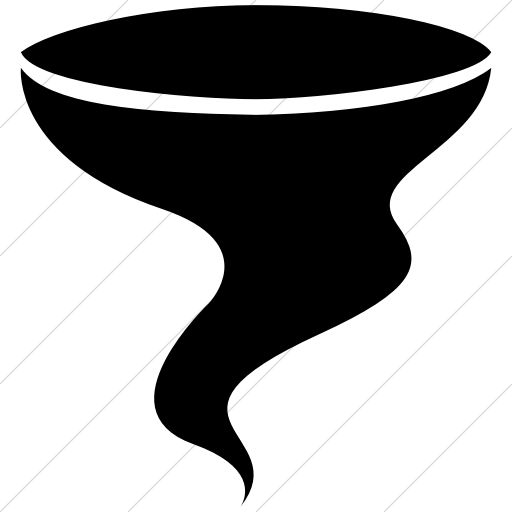
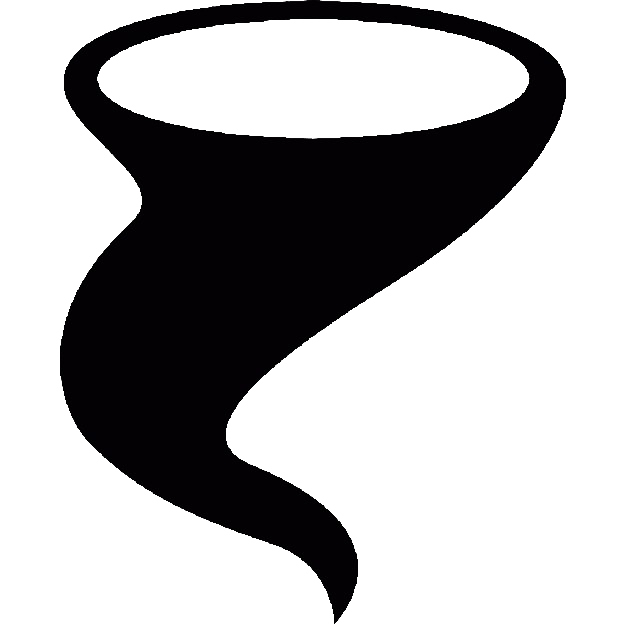
bubbles
- Bubble layers with icons per disaster type (tornado, earthquake).
- Dummy data to show icons on map

diff --git a/src/worldmap.js b/src/worldmap.js
@@ -1,9 +1,187 @@
-var basic;
-
-function setup(){
-	basic = new Datamap({
+var map = new Datamap({
   element: document.getElementById("map")
 });
-}
-/*Probably unnecessary*/
-window.onload = setup
+
+
+// code from http://jsbin.com/sijijupiba/edit?html,output
+// discussed in https://github.com/markmarkoh/datamaps/issues/230
+
+map.addPlugin('earthquakes', function ( layer, data, options ) {  
+    var self = this,
+        fillData = this.options.fills,
+        svg = this.svg;
+
+    if ( !data || (data && !data.slice) ) {
+      throw "Datamaps Error - bubbles must be an array";
+    }
+
+    var bubbles = layer.selectAll('image.datamaps-pins').data( data, JSON.stringify );
+
+    bubbles
+      .enter()
+        .append('image')
+        .attr('class', 'datamaps-pin')
+        .attr('xlink:href', 'img/earthquake_blue.png')
+        .attr('height', 40)
+        .attr('width', 40)
+        .attr('x', function ( datum ) {
+          console.log('hey')
+          var latLng;
+          if ( datumHasCoords(datum) ) {
+            latLng = self.latLngToXY(datum.latitude, datum.longitude);
+          }
+          else if ( datum.centered ) {
+            latLng = self.path.centroid(svg.select('path.' + datum.centered).data()[0]);
+          }
+          if ( latLng ) return latLng[0];
+        })
+        .attr('y', function ( datum ) {
+          var latLng;
+          if ( datumHasCoords(datum) ) {
+            latLng = self.latLngToXY(datum.latitude, datum.longitude);
+          }
+          else if ( datum.centered ) {
+            latLng = self.path.centroid(svg.select('path.' + datum.centered).data()[0]);
+          }
+          if ( latLng ) return latLng[1];;
+        })
+
+        .on('mouseover', function ( datum ) {
+          console.log('mousover!');
+          var $this = d3.select(this);
+
+          if (options.popupOnHover) {
+            console.log('going', datum)
+            self.updatePopup($this, datum, options, svg);
+          }
+        })
+        .on('mouseout', function ( datum ) {
+          var $this = d3.select(this);
+
+          if (options.highlightOnHover) {
+            //reapply previous attributes
+            var previousAttributes = JSON.parse( $this.attr('data-previousAttributes') );
+            for ( var attr in previousAttributes ) {
+              $this.style(attr, previousAttributes[attr]);
+            }
+          }
+
+          d3.selectAll('.datamaps-hoverover').style('display', 'none');
+        })
+
+
+    bubbles.exit()
+      .transition()
+        .delay(options.exitDelay)
+        .attr("height", 0)
+        .remove();
+
+    function datumHasCoords (datum) {
+      return typeof datum !== 'undefined' && typeof datum.latitude !== 'undefined' && typeof datum.longitude !== 'undefined';
+    }
+      
+    });
+
+map.addPlugin('tornados', function ( layer, data, options ) {  
+    var self = this,
+        fillData = this.options.fills,
+        svg = this.svg;
+
+    if ( !data || (data && !data.slice) ) {
+      throw "Datamaps Error - bubbles must be an array";
+    }
+
+    var bubbles = layer.selectAll('image.datamaps-pins').data( data, JSON.stringify );
+
+    bubbles
+      .enter()
+        .append('image')
+        .attr('class', 'datamaps-pin')
+        .attr('xlink:href', 'img/tornado.png')
+        .attr('height', 40)
+        .attr('width', 40)
+        .attr('x', function ( datum ) {
+          console.log('hey')
+          var latLng;
+          if ( datumHasCoords(datum) ) {
+            latLng = self.latLngToXY(datum.latitude, datum.longitude);
+          }
+          else if ( datum.centered ) {
+            latLng = self.path.centroid(svg.select('path.' + datum.centered).data()[0]);
+          }
+          if ( latLng ) return latLng[0];
+        })
+        .attr('y', function ( datum ) {
+          var latLng;
+          if ( datumHasCoords(datum) ) {
+            latLng = self.latLngToXY(datum.latitude, datum.longitude);
+          }
+          else if ( datum.centered ) {
+            latLng = self.path.centroid(svg.select('path.' + datum.centered).data()[0]);
+          }
+          if ( latLng ) return latLng[1];;
+        })
+
+        .on('mouseover', function ( datum ) {
+          console.log('mousover!');
+          var $this = d3.select(this);
+
+          if (options.popupOnHover) {
+            console.log('going', datum)
+            self.updatePopup($this, datum, options, svg);
+          }
+        })
+        .on('mouseout', function ( datum ) {
+          var $this = d3.select(this);
+
+          if (options.highlightOnHover) {
+            //reapply previous attributes
+            var previousAttributes = JSON.parse( $this.attr('data-previousAttributes') );
+            for ( var attr in previousAttributes ) {
+              $this.style(attr, previousAttributes[attr]);
+            }
+          }
+
+          d3.selectAll('.datamaps-hoverover').style('display', 'none');
+        })
+
+
+    bubbles.exit()
+      .transition()
+        .delay(options.exitDelay)
+        .attr("height", 0)
+        .remove();
+
+    function datumHasCoords (datum) {
+      return typeof datum !== 'undefined' && typeof datum.latitude !== 'undefined' && typeof datum.longitude !== 'undefined';
+    }
+      
+    });
+       
+      
+       //bubbles, custom popup on hover template
+     map.earthquakes([
+       {name: 'Fake Quake', latitude: 21.32, longitude: 5.32, radius: 10, fillKey: 'gt50'},
+       {name: 'Fake Quake', latitude: -25.32, longitude: 120.32, radius: 10, fillKey: 'lt50'},
+       {name: 'Fake Quake', latitude: 21.32, longitude: -84.32, radius: 10, fillKey: 'gt50'},
+      
+
+     ], {
+       popupOnHover: true,
+       popupTemplate: function(data) {
+         return "<div class='hoverinfo'>It is " + data.name + "</div>";
+       }
+     });
+
+     37.1869584,-123.7641865,6
+     map.tornados([
+       {name: 'Fake Tornado', latitude: 37.1869584, longitude: -123.7641865, radius: 10, fillKey: 'gt50'},
+       {name: 'Fake Tornado', latitude:39.9385466, longitude: 116.1172752, radius: 10, fillKey: 'gt50'},
+      
+
+     ], {
+       popupOnHover: true,
+       popupTemplate: function(data) {
+         return "<div class='hoverinfo'>It is " + data.name + "</div>";
+       }
+     });
